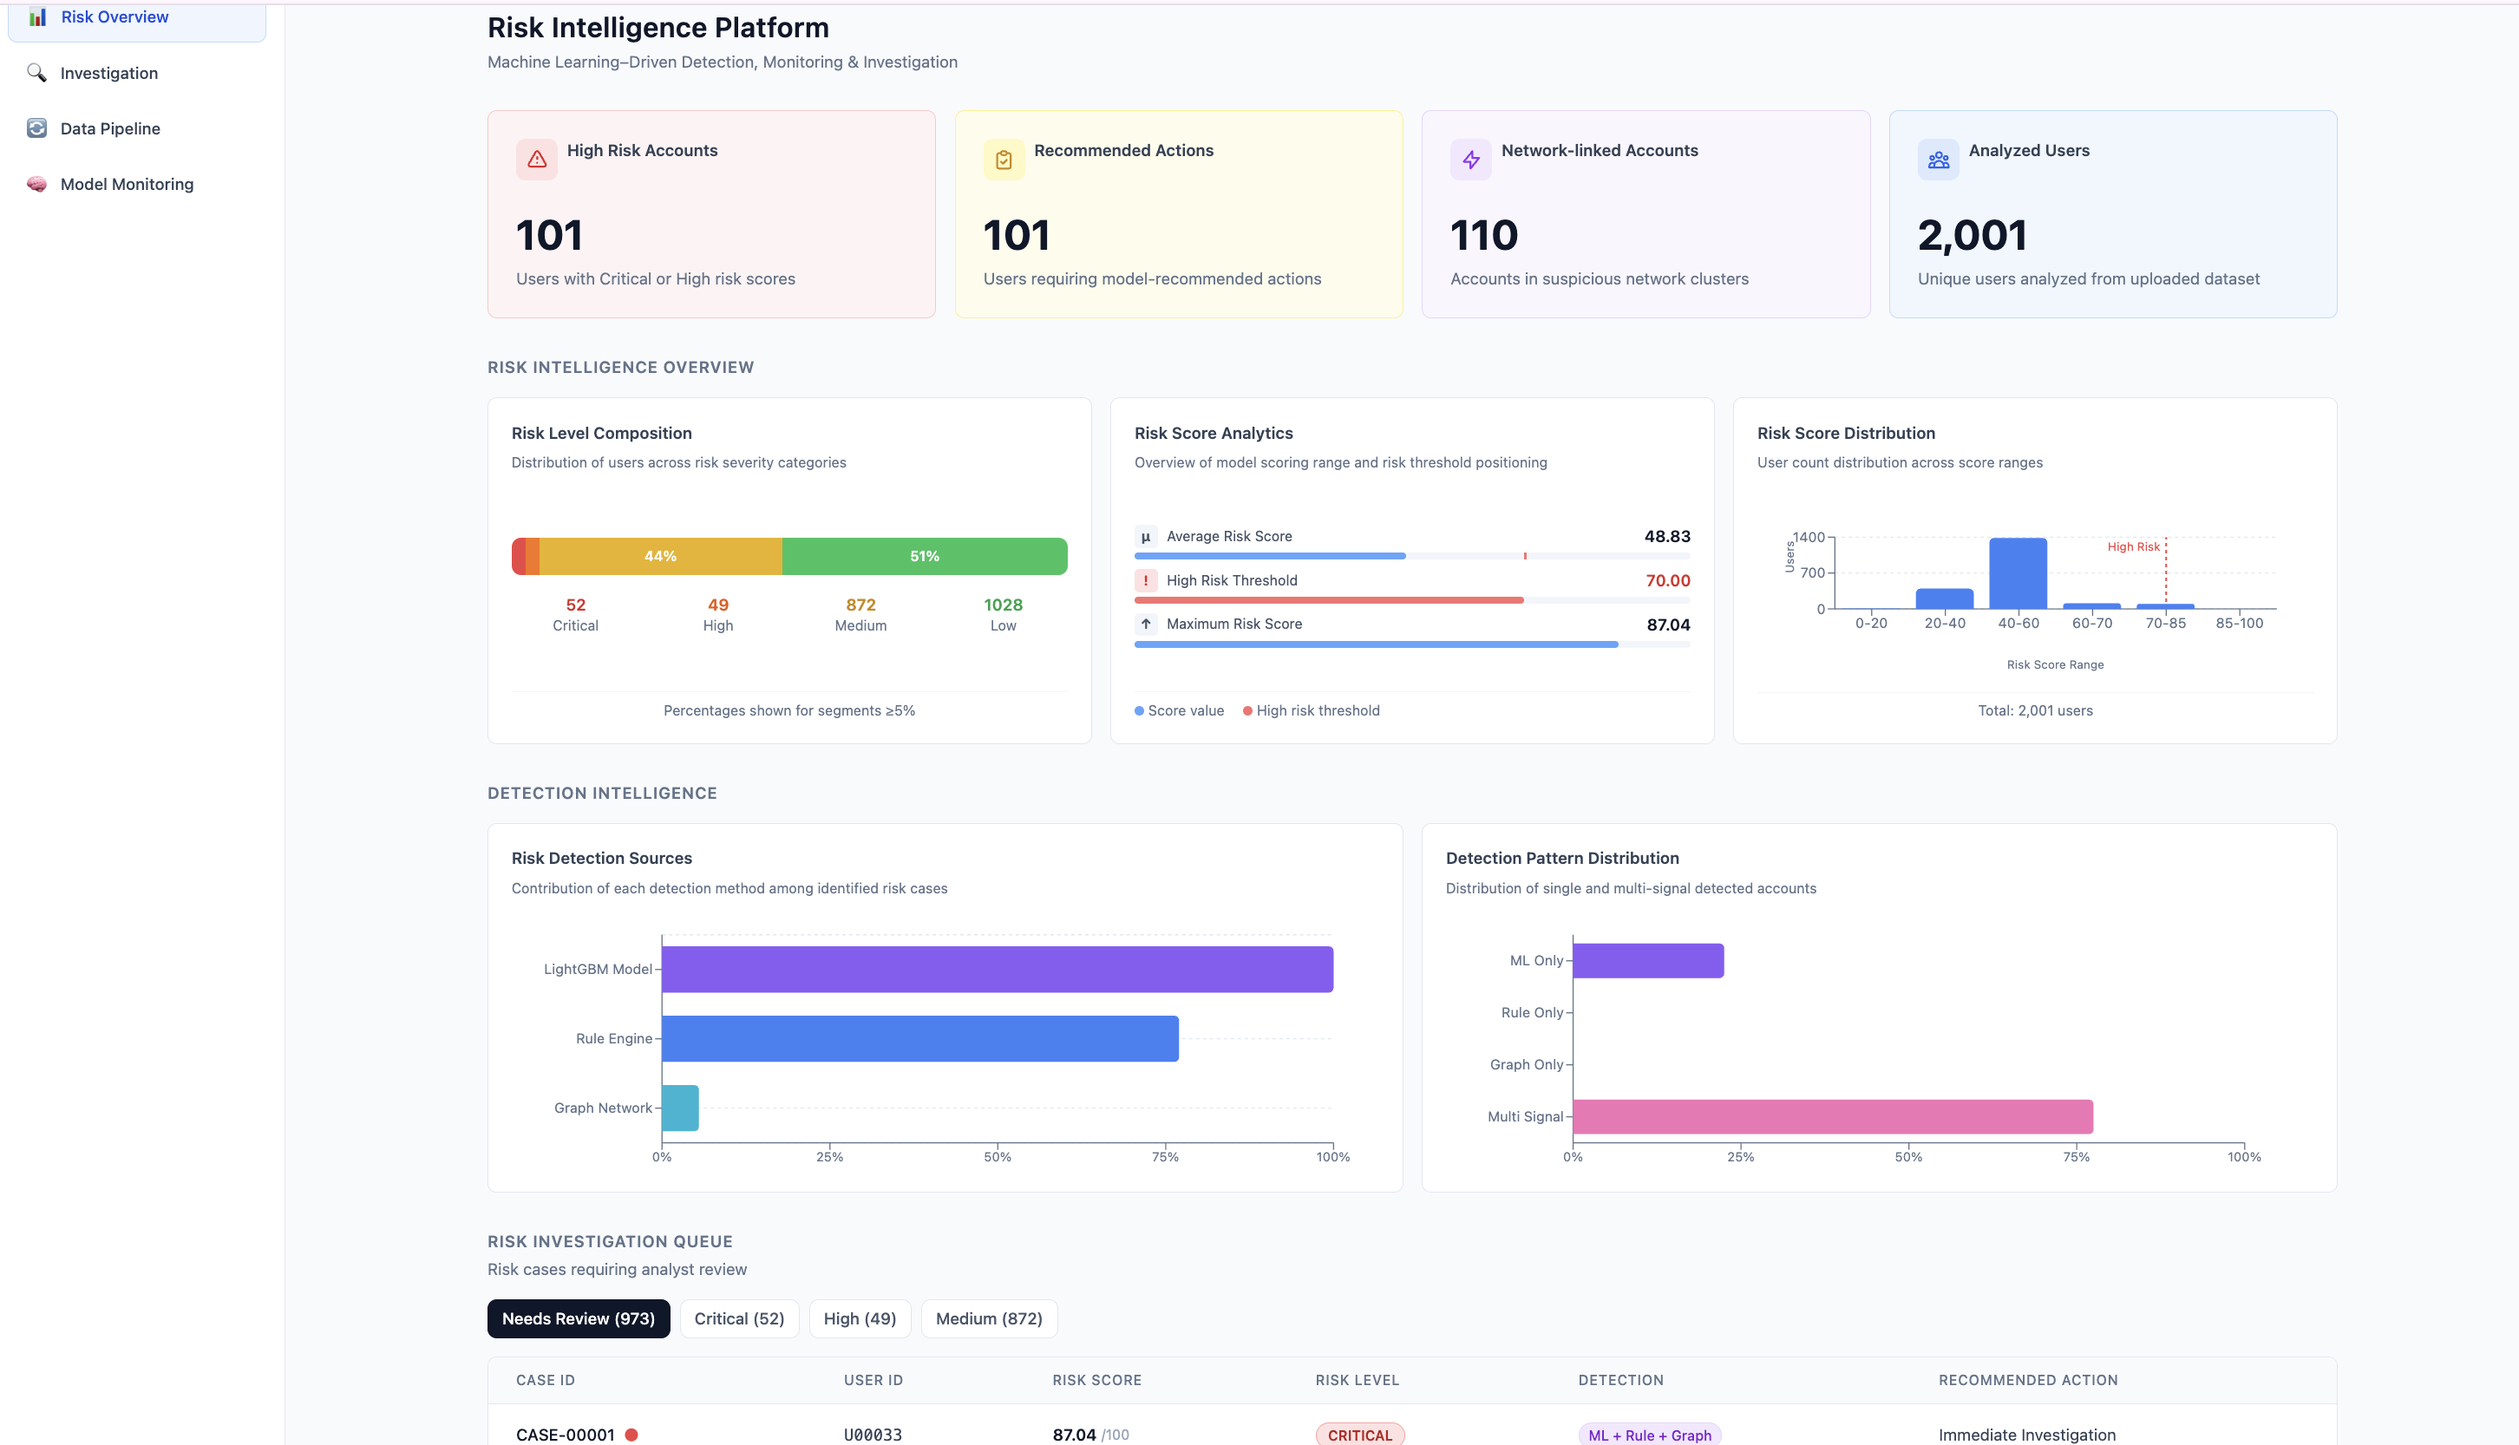
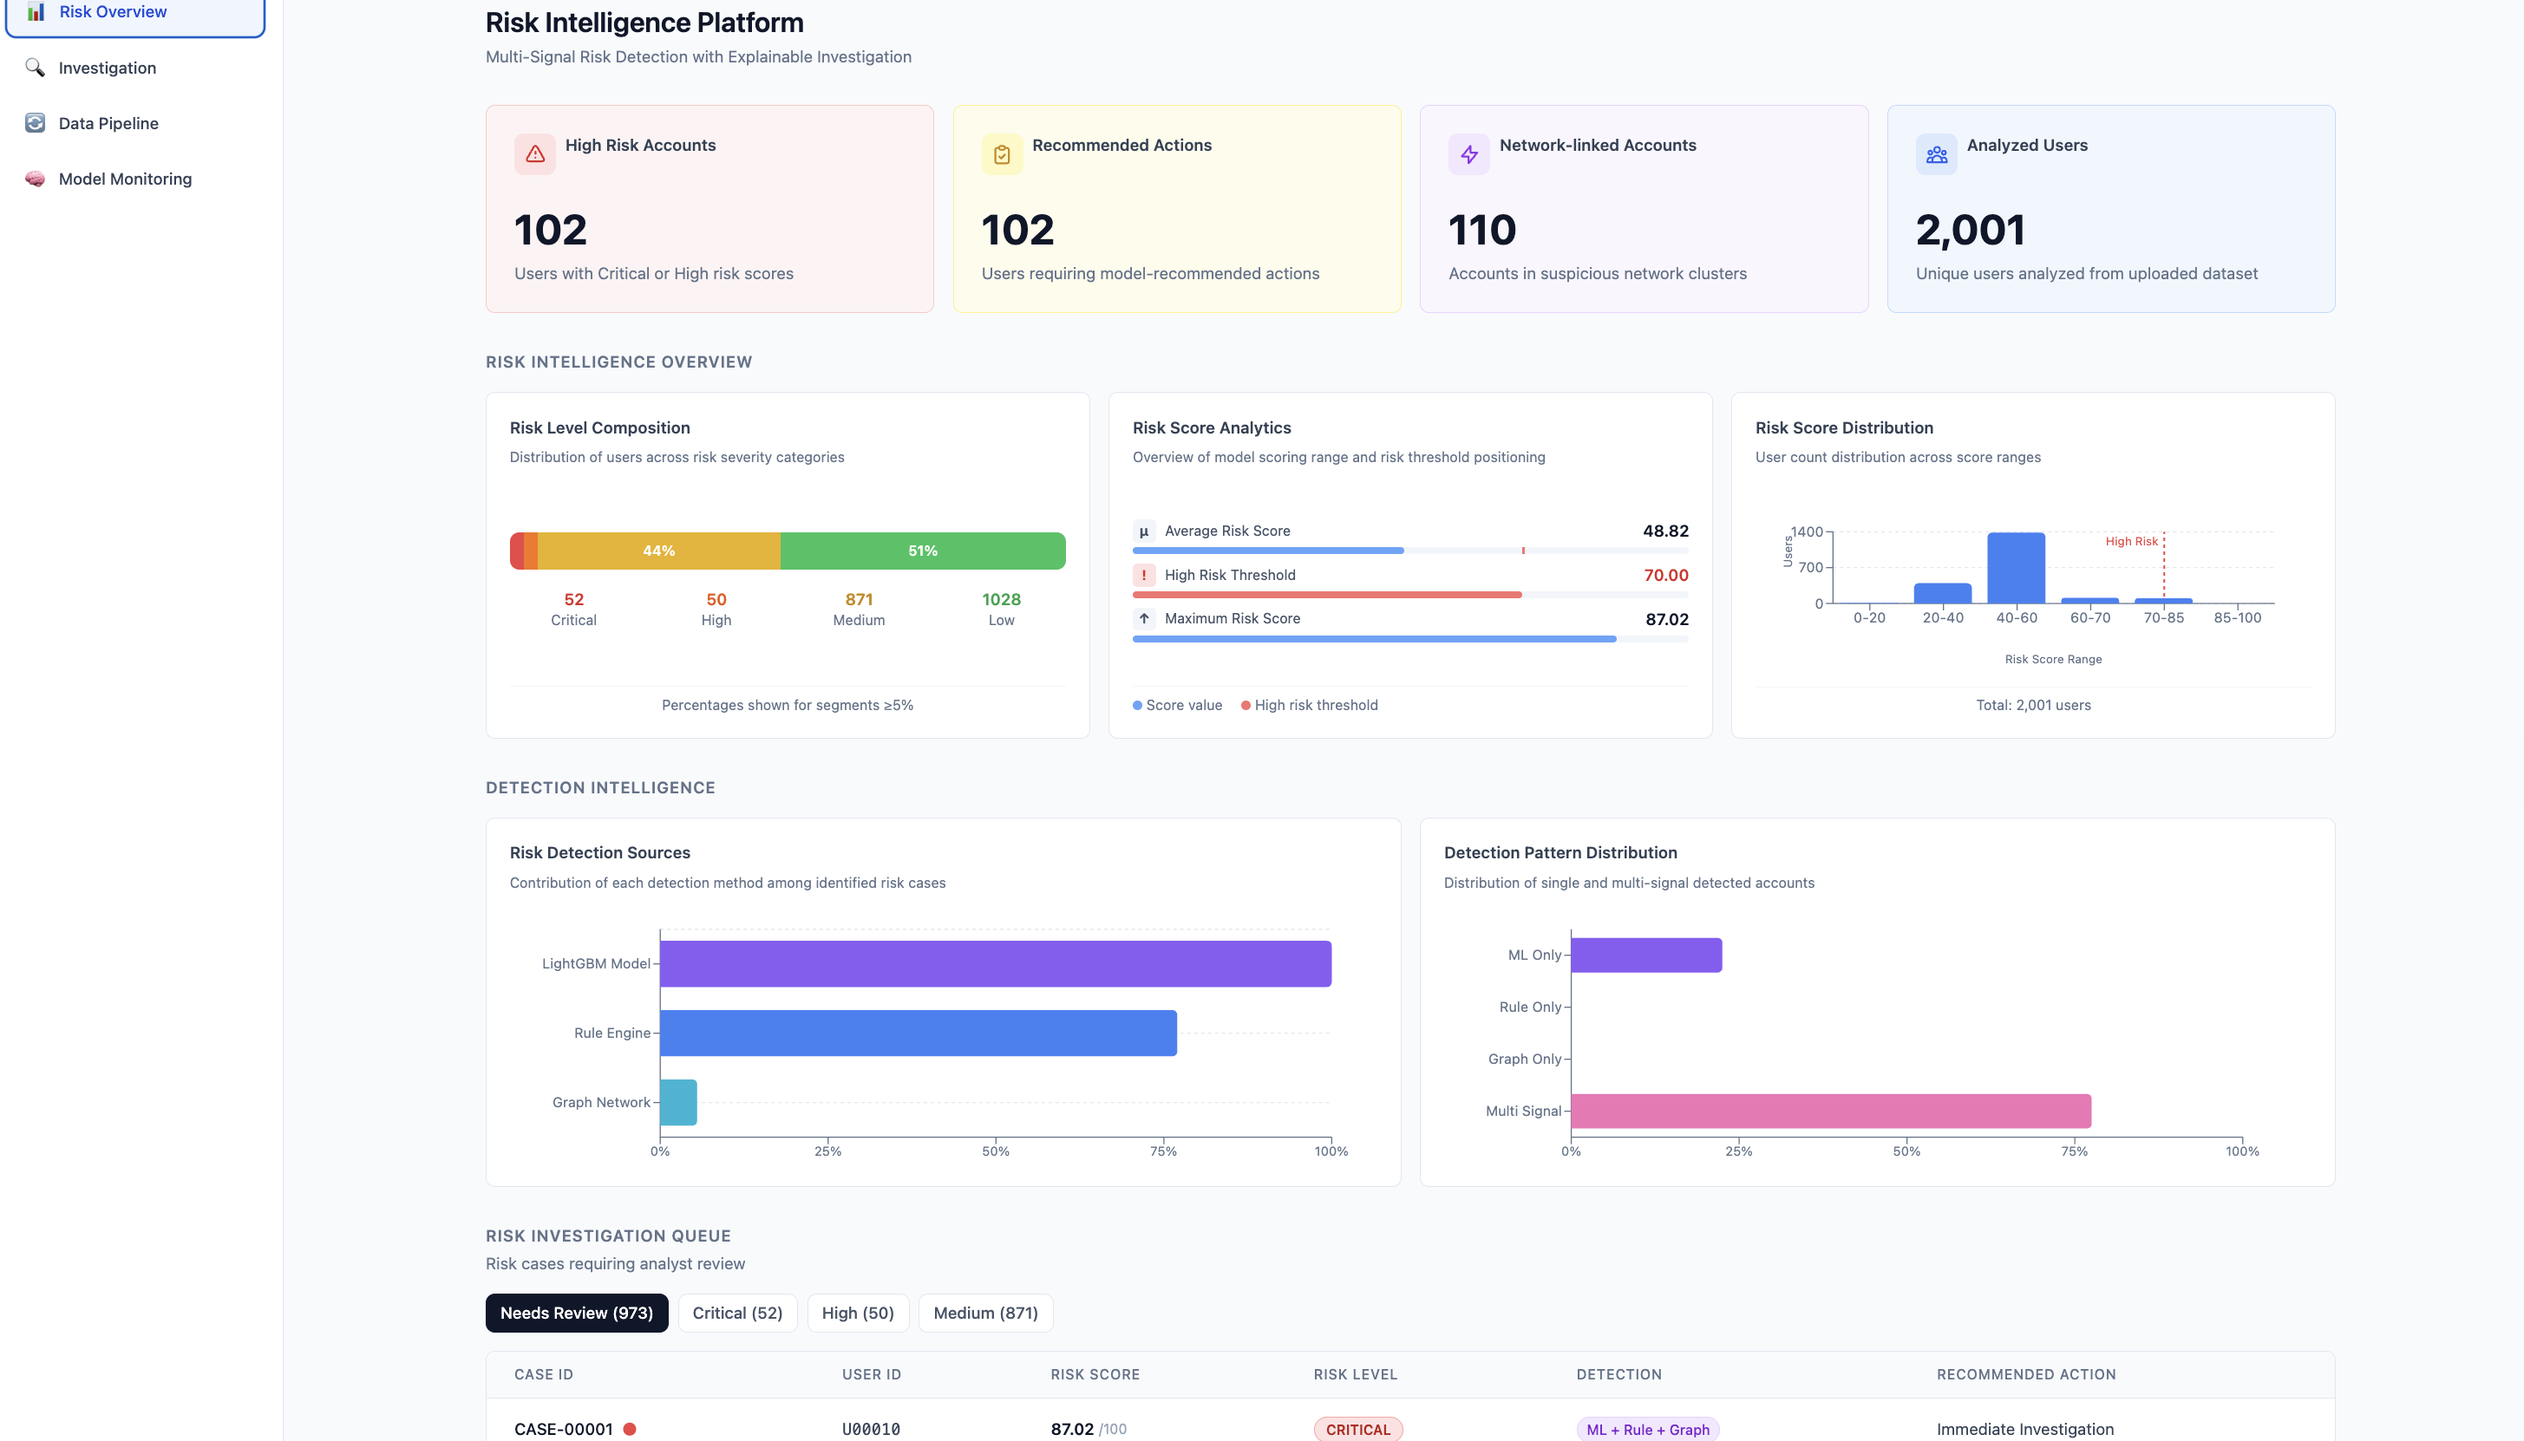
Update risk overview screenshot and label

diff --git a/README.md b/README.md
@@ -18,7 +18,7 @@ The platform implements a complete risk detection pipeline from data ingestion t
 
 ### 1. Risk Overview
 
-**Risk Command Center** — Executive dashboard with detection intelligence, risk distribution, and investigation queue metrics
+**Risk Overview** — Executive dashboard with detection intelligence, risk distribution, and investigation queue metrics
 
 ![Risk Overview](docs/screenshots/risk-overview.png)
 
